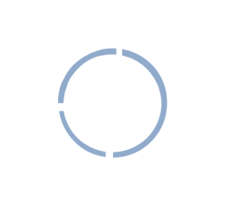
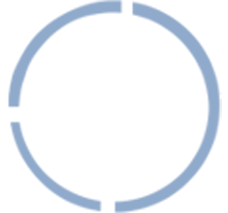
Edit border spinning

Changed region(s): [[0.0307, 0.0, 0.9825, 1.0], [0.2456, 0.2254, 0.7368, 0.7606], [0.0307, 0.5634, 0.4605, 1.0]]

diff --git a/frontend/src/screens/Login.js b/frontend/src/screens/Login.js
@@ -1,10 +1,10 @@
 import React, { useState, useEffect } from 'react'
-import { StyleSheet, Text, View, Dimensions, Easing, Image, Animated,  PixelRatio, Platform } from 'react-native'
+import { StyleSheet, Text, View, Dimensions, Easing, Image, Animated, PixelRatio, Platform } from 'react-native'
 import * as Font from 'expo-font';
 
 let customFonts = {
-    'Kanit': require('../assets/fonts/Kanit-Medium.ttf'),
-  };
+    'Kanit': require('../assets/fonts/Kanit-Light.ttf'),
+};
 
 const {
     width: SCREEN_WIDTH,
@@ -14,7 +14,7 @@ const {
 const scale = SCREEN_WIDTH / 320;
 
 const normalize = (size) => {
-    const newSize = size * scale 
+    const newSize = size * scale
     if (Platform.OS === 'ios') {
         return Math.round(PixelRatio.roundToNearestPixel(newSize))
     } else {
@@ -26,45 +26,57 @@ export default function App() {
     Font.loadAsync(customFonts);
     const spinValue = new Animated.Value(0);
     const spinValue2 = new Animated.Value(0);
+    const spinValue3 = new Animated.Value(0);
     const star1MoveValue = new Animated.Value(0);
 
     useEffect(() => {
         Animated.loop(
-        Animated.parallel([
-            Animated.timing(
-                spinValue,
-                {
-                    toValue: 1,
-                    duration: 3000,
-                    easing: Easing.linear,
-                    useNativeDriver: true,
-                    isInteraction: false,
-                    iterations: -1
-                }
-            ),
-            Animated.timing(
-                spinValue2,
-                {
-                    toValue: 1,
-                    duration: 2500,
-                    easing: Easing.elastic(),
-                    useNativeDriver: true,
-                    isInteraction: false,
-                    iterations: -1
-                }
-            ),
-            Animated.timing(
-                star1MoveValue,
-                {
-                    toValue: 1,
-                    duration: 2000,
-                    easing: Easing.linear,
-                    useNativeDriver: true,
-                    isInteraction: false,
-                    iterations: -1
-                }
-            )])
-    ).start();
+            Animated.parallel([
+                Animated.timing(
+                    spinValue,
+                    {
+                        toValue: 1,
+                        duration: 15000,
+                        easing: Easing.linear,
+                        useNativeDriver: true,
+                        isInteraction: false,
+                        iterations: -1
+                    }
+                ),
+                Animated.timing(
+                    spinValue2,
+                    {
+                        toValue: 1,
+                        duration: 2500,
+                        easing: Easing.elastic(),
+                        useNativeDriver: true,
+                        isInteraction: false,
+                        iterations: -1
+                    }
+                ),
+                Animated.timing(
+                    spinValue3,
+                    {
+                        toValue: 1,
+                        duration: 35000,
+                        easing: Easing.linear,
+                        useNativeDriver: true,
+                        isInteraction: false,
+                        iterations: -1
+                    }
+                ),
+                Animated.timing(
+                    star1MoveValue,
+                    {
+                        toValue: 1,
+                        duration: 2000,
+                        easing: Easing.linear,
+                        useNativeDriver: true,
+                        isInteraction: false,
+                        iterations: -1
+                    }
+                )])
+        ).start();
     }, [spinValue, spinValue2, star1MoveValue])
 
     const spin = spinValue.interpolate({
@@ -73,6 +85,11 @@ export default function App() {
     })
 
     const spin2 = spinValue2.interpolate({
+        inputRange: [0, 1],
+        outputRange: ['0deg', '-360deg']
+    })
+
+    const spin3 = spinValue3.interpolate({
         inputRange: [0, 1],
         outputRange: ['0deg', '360deg']
     })
@@ -88,13 +105,17 @@ export default function App() {
 
     return (
         <View style={styles.container}>
-            {/* <Animated.View style={[styles.circleBorder2, { transform: [{ rotate: spin2 }] }]} /> */}
+            {/* <Animated.View style={[styles.circleBorder, { transform: [{ rotate: spin }] }]} />
+            <Animated.View style={[styles.circleBorder2, { transform: [{ rotate: spin2 }] }]} /> */}
+            <Animated.Image style={[styles.circleBorder, { transform: [{ rotate: spin }] }]} source={require("../assets/Login_pic_frame/frame1.png")}></Animated.Image>
+            <Animated.Image style={[styles.circleBorder2, { transform: [{ rotate: spin2 }] }]} source={require("../assets/Login_pic_frame/frame2.png")}></Animated.Image>
+            <Animated.Image style={[styles.circleBorder3, { transform: [{ rotate: spin3 }] }]} source={require("../assets/Login_pic_frame/frame3.png")}></Animated.Image>
             <View style={styles.logoContainer}>
                 <Image style={styles.logo} source={require("../assets/logo/logo_color_dino.png")}></Image>
                 <Text style={styles.loginText}>Login</Text>
             </View>
             <Animated.Image style={[styles.star_decration1, { transform: [{ translateY: move_star1 }] }]} source={require("../assets/decoration/star2.png")}></Animated.Image>
-            <Animated.Image style={[styles.star_decration1, { transform: [{ translateY: move_star1 }] }]} source={require("../assets/decoration/star.png")}></Animated.Image>
+            <Animated.Image style={[styles.star_decration2, { transform: [{ translateY: move_star1 }] }]} source={require("../assets/decoration/star.png")}></Animated.Image>
         </View>
     );
 
@@ -107,22 +128,29 @@ const styles = StyleSheet.create({
         backgroundColor: '#FFB085',
         alignItems: 'center',
         padding: 20,
-        justifyContent: 'center'
+        justifyContent: 'center',
+        overflow: "hidden"
     },
     logoContainer: {
         borderRadius: Math.round(Dimensions.get('window').width + Dimensions.get('window').height) / 2,
-        width: Dimensions.get('window').width * 0.7,
-        height: Dimensions.get('window').width * 0.7,
+        // width: Dimensions.get('window').width * 0.7,
+        // height: Dimensions.get('window').width * 0.7,
+        width: Dimensions.get('window').width * 0.5,
+        height: Dimensions.get('window').width * 0.5,
         backgroundColor: '#FEF1E6',
         justifyContent: 'center',
         alignItems: 'center',
     },
     logo: {
-        width: (Dimensions.get('window').width * 0.5),
-        height: Dimensions.get('window').width * 0.5,
+        // width: (Dimensions.get('window').width * 0.5),
+        // height: Dimensions.get('window').width * 0.5,
+        width: (Dimensions.get('window').width * 0.35),
+        height: Dimensions.get('window').width * 0.35,
         position: "absolute",
-        top: (Dimensions.get('window').width * 0.04),
-        left: Dimensions.get('window').width * 0.125,
+        // top: (Dimensions.get('window').width * 0.04),
+        // left: Dimensions.get('window').width * 0.125,
+        top: (Dimensions.get('window').width * 0.025),
+        left: Dimensions.get('window').width * 0.1,
     },
     loginText: {
         position: "relative",
@@ -132,11 +160,11 @@ const styles = StyleSheet.create({
         fontWeight: "bold"
     },
     star_decration1: {
-        width: (Dimensions.get('window').height * 0.16),
-        height: Dimensions.get('window').height * 0.16,
+        width: (Dimensions.get('window').height * 0.135),
+        height: Dimensions.get('window').height * 0.135,
         position: "absolute",
-        top: (Dimensions.get('window').height * 0.1),
-        left: Dimensions.get('window').width * 0.05,
+        top: (Dimensions.get('window').height * 0.125),
+        left: Dimensions.get('window').width * 0.7,
     },
     star_decration2: {
         width: (Dimensions.get('window').height * 0.16),
@@ -144,5 +172,23 @@ const styles = StyleSheet.create({
         position: "absolute",
         top: (Dimensions.get('window').height * 0.1),
         left: Dimensions.get('window').width * 0.05,
+    },
+    circleBorder:{
+        width: (Dimensions.get('window').width * 0.575),
+        height: Dimensions.get('window').width * 0.575,
+        position: "absolute",
+        alignSelf: 'center',
+    },
+    circleBorder2:{
+        width: (Dimensions.get('window').width * 0.665),
+        height: Dimensions.get('window').width * 0.665,
+        position: "absolute",
+        alignSelf: 'center',
+    },
+    circleBorder3:{
+        width: (Dimensions.get('window').width * 0.685),
+        height: Dimensions.get('window').width * 0.685,
+        position: "absolute",
+        alignSelf: 'center',
     }
 });
